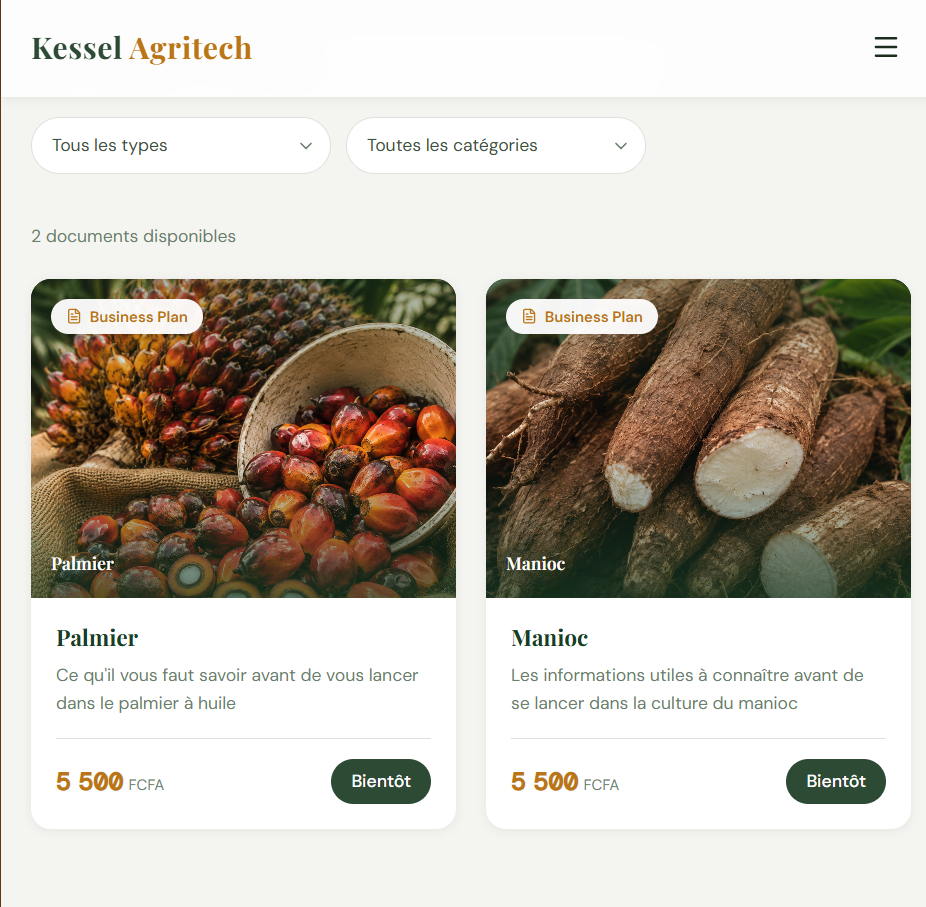
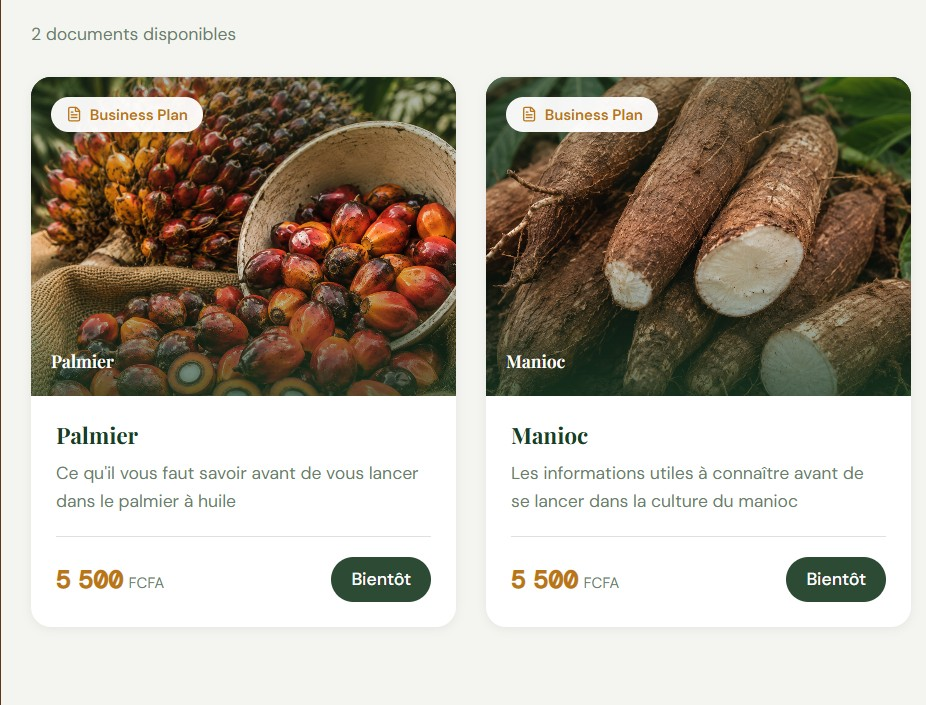
feat: hero bibliotheque + mockup app accueil

diff --git a/app/bibliotheque/page.tsx b/app/bibliotheque/page.tsx
@@ -3,6 +3,7 @@
 import { useScrollReveal } from "@/hooks/useScrollReveal";
 import { useState, useEffect } from "react";
 import Link from "next/link";
+import Image from "next/image";
 import Navbar from "@/components/Navbar";
 import Footer from "@/components/Footer";
 import { supabase } from "@/lib/supabase";
@@ -158,6 +159,15 @@ export default function BibliothequePage() {
 
       {/* HERO COURT */}
       <section className="relative bg-forest-dark pt-28 pb-16 overflow-hidden">
+        <Image
+          src="/images/bibliotheque-hero.jpg"
+          alt=""
+          fill
+          className="object-cover object-center"
+          priority
+          quality={85}
+        />
+        <div className="absolute inset-0 bg-forest-dark/70" />
         <svg className="absolute -right-[8%] -top-[20%] w-[45%] opacity-[0.05] pointer-events-none" viewBox="0 0 600 600">
           <polygon points="300,20 560,150 560,450 300,580 40,450 40,150" stroke="white" strokeWidth="2" fill="none" />
         </svg>

diff --git a/app/page.tsx b/app/page.tsx
@@ -209,7 +209,7 @@ export default function HomePage() {
             </div>
             <div className="relative aspect-[4/3] rounded-2xl overflow-hidden shadow-lg bg-forest-light">
               <Image
-                src="/images/app-preview.jpg"
+                src="/images/mockup-app.png"
                 alt="Application mobile Kessel sur smartphone"
                 fill
                 sizes="(max-width: 1024px) 100vw, 50vw"
